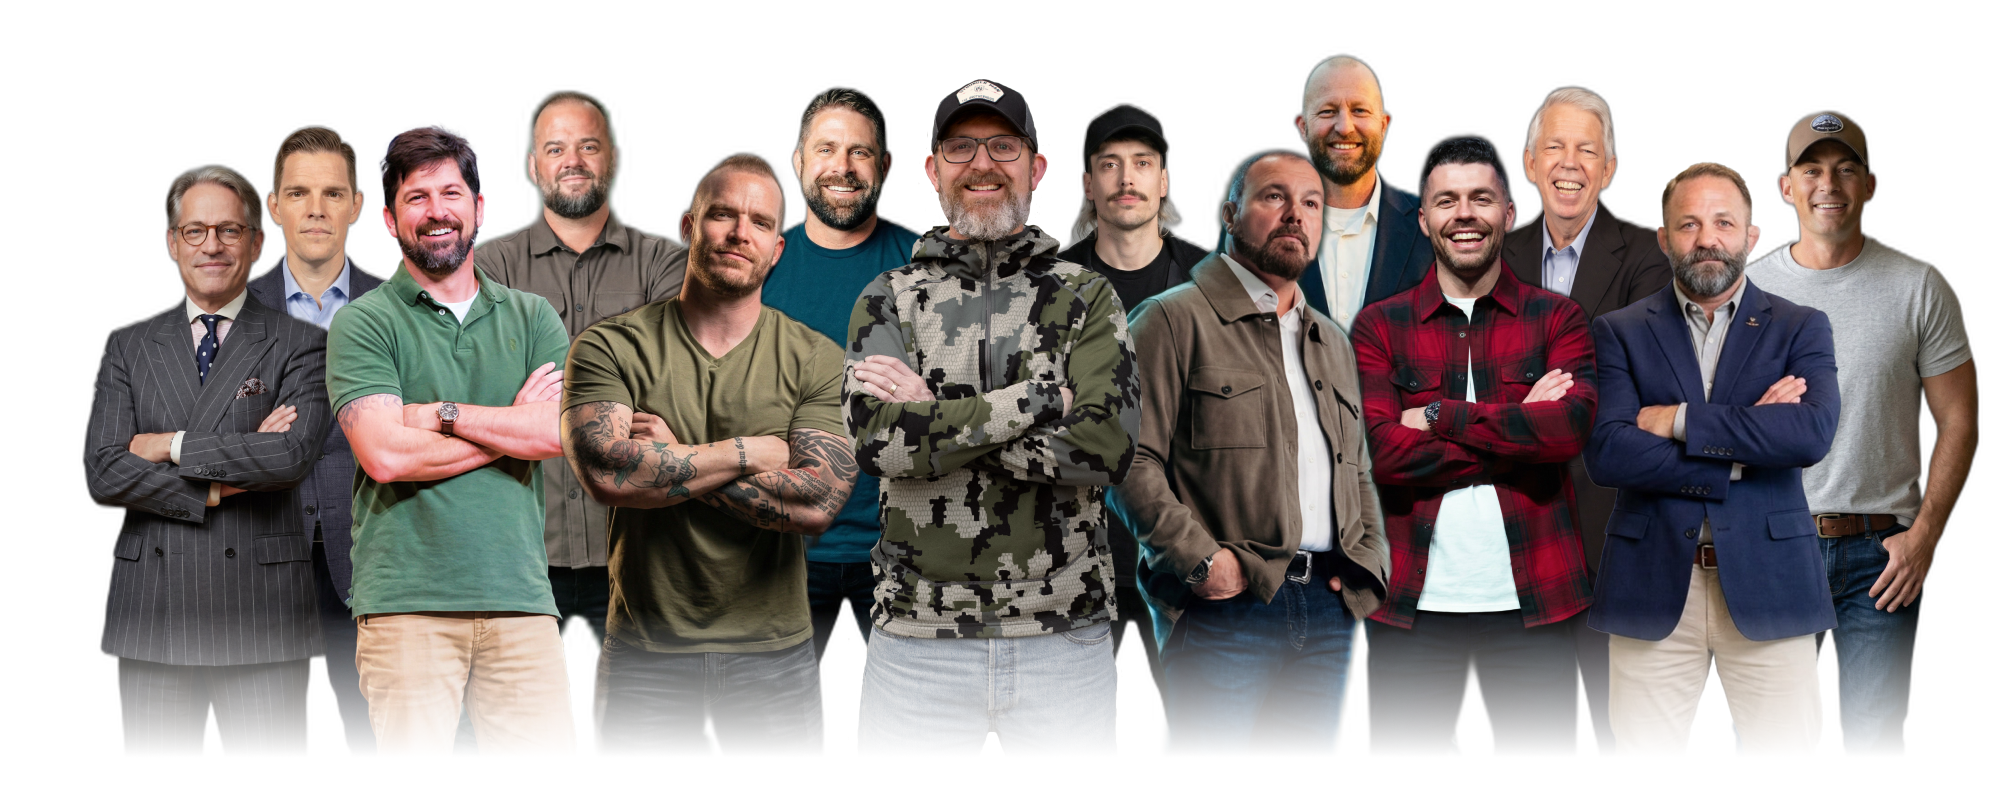
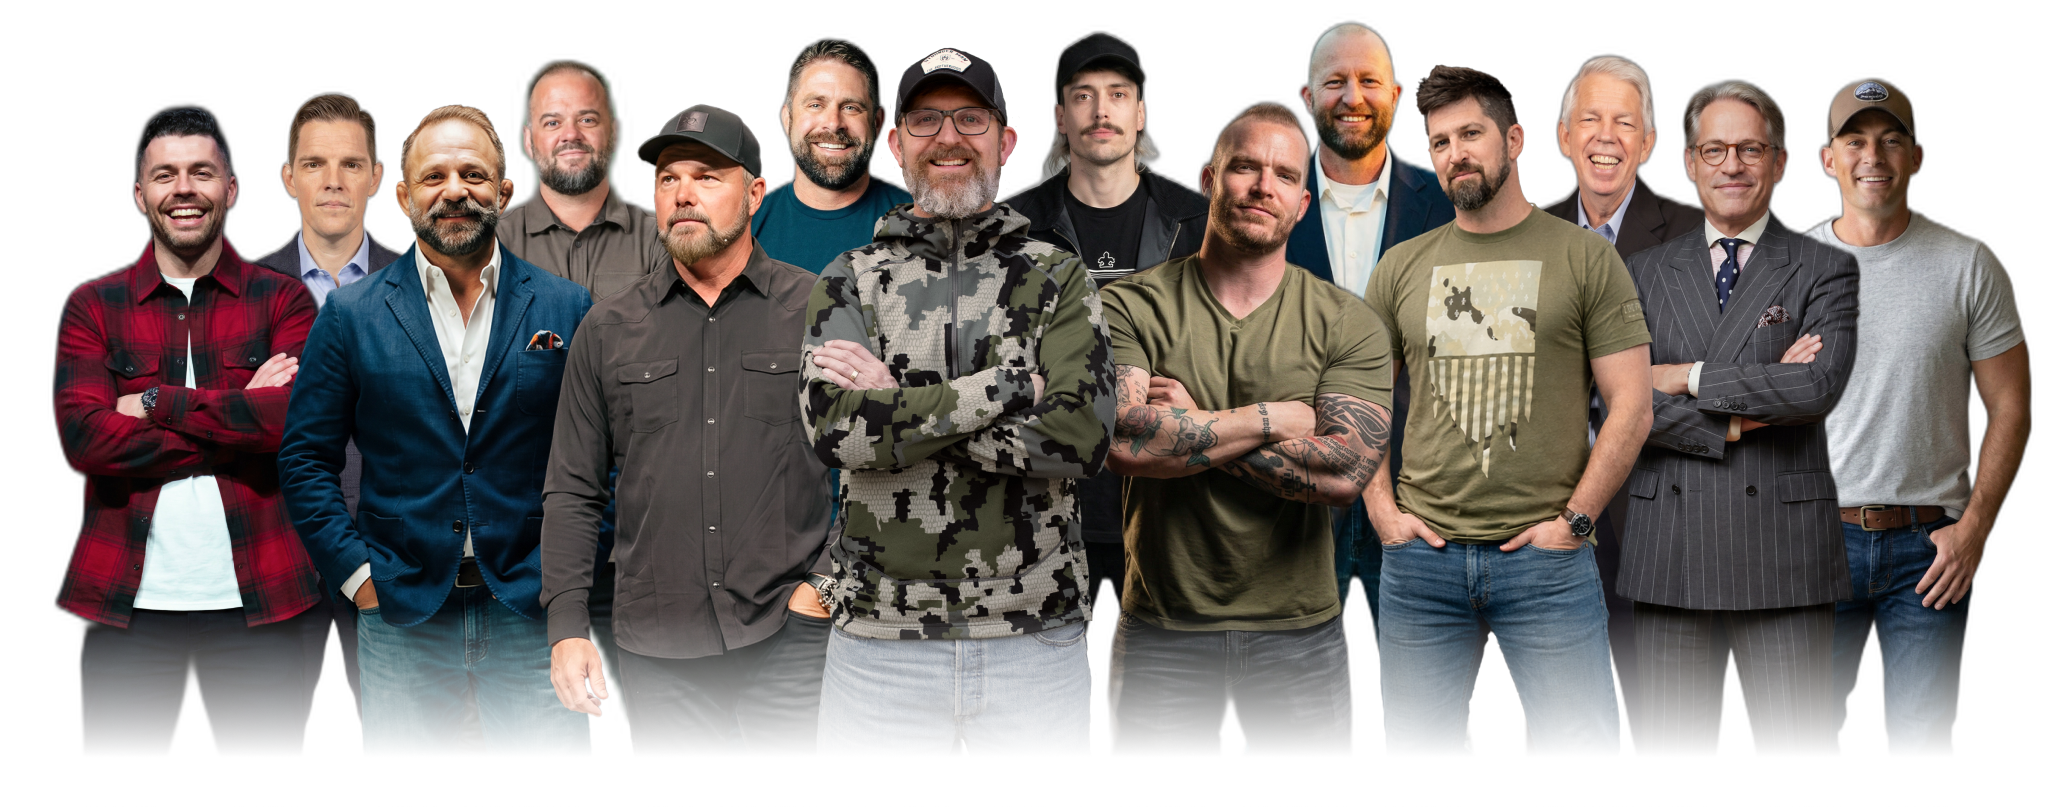
update hero image

diff --git a/src/static/css/components/landing-variant-12.css b/src/static/css/components/landing-variant-12.css
@@ -257,9 +257,8 @@ body.landing12-no-scroll {
 
 .landing12-hero-media {
     position: relative;
-    width: min(1540px, 100vw);
-    margin: 0 auto;
-    min-height: clamp(360px, 50vw, 760px);
+    width: 100vw;
+    margin-left: calc(50% - 50vw);
     background: #000;
     overflow: hidden;
     display: flex;
@@ -267,18 +266,10 @@ body.landing12-no-scroll {
     align-items: center;
     justify-content: flex-end;
     gap: 0;
-    padding: clamp(0.5rem, 1.2vw, 1rem) clamp(0.4rem, 1vw, 0.8rem) 0;
+    padding: 0;
 }
 
-.landing12-hero-media img {
-    position: relative;
-    inset: auto;
-    width: 80%;
-    height: auto;
-    object-fit: contain;
-    object-position: center bottom;
-    display: block;
-}
+
 
 /* on mobile */
 @media (max-width: 600px) {
@@ -289,7 +280,7 @@ body.landing12-no-scroll {
 }
 
 .landing12-hero-title-image {
-    width: 20vw;
+    width: 80vw;
     height: auto;
     opacity: 0;
     transform: translate3d(0, 18px, 0);
@@ -297,7 +288,9 @@ body.landing12-no-scroll {
 }
 
 .landing12-hero-lineup-image {
-    width: min(1540px, 100vw);
+    width: 100vw;
+    height: auto;
+    display: block;
     margin-top: clamp(-6.5rem, -7vw, -2.5rem);
     opacity: 0;
     transform: translate3d(0, 24px, 0);
@@ -503,13 +496,18 @@ body.landing12-no-scroll {
     position: relative;
     isolation: isolate;
     background: linear-gradient(180deg, rgba(0, 0, 0, 0) 0%,  rgba(0, 0, 0, 0) 50%,  rgba(0, 0, 0, 1) 80%);
-    min-height: clamp(320px, 52vw, 620px);
+    width: 100vw;
+    margin-left: calc(50% - 50vw);
     display: grid;
     place-items: center;
-    overflow: hidden;
 }
 
-.landing12-cta-2__media,
+.landing12-cta-2__media {
+    position: relative;
+    width: 100%;
+    grid-area: 1 / 1;
+}
+
 .landing12-cta-2__overlay {
     position: absolute;
     inset: 0;
@@ -517,8 +515,7 @@ body.landing12-no-scroll {
 
 .landing12-cta-2__image {
     width: 100%;
-    height: 100%;
-    object-fit: cover;
+    height: auto;
     display: block;
 }
 
@@ -528,7 +525,10 @@ body.landing12-no-scroll {
 }
 
 .landing12-cta-2__content {
-    position: relative;
+    position: absolute;
+    bottom: 0;
+    left: 0;
+    right: 0;
     z-index: 2;
     text-align: center;
     padding-top: clamp(3.2rem, 7vw, 6rem);
@@ -1440,6 +1440,7 @@ body.landing12-no-scroll {
     .landing12-hero-media {
         min-height: 0;
         padding: 0;
+        width: 100vw;
     }
 
     .landing12-hero-title-image {
